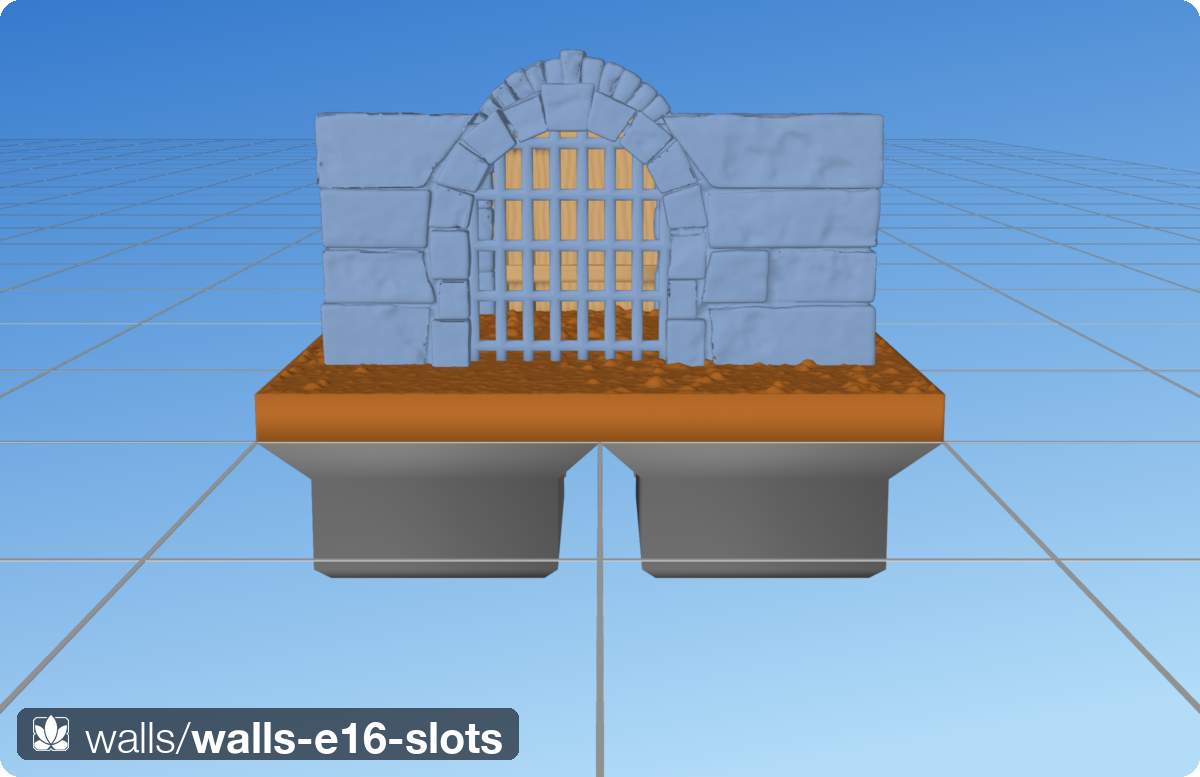
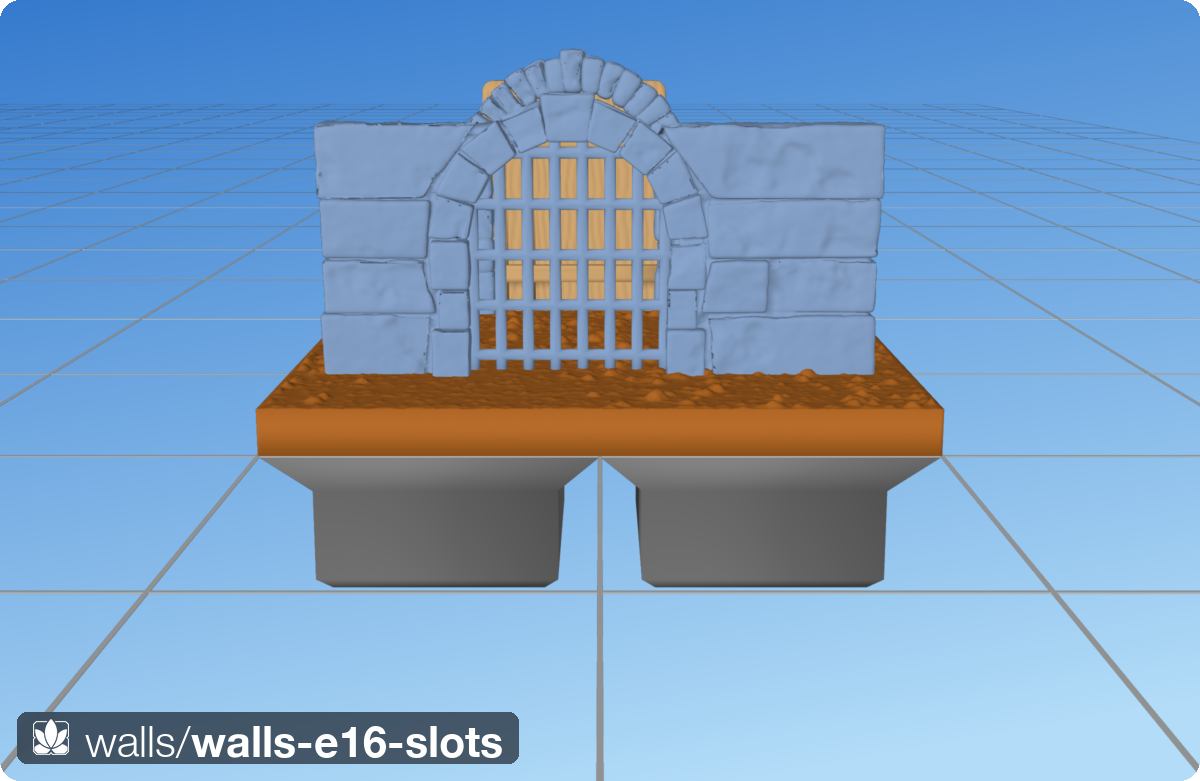
Openings O6: slot cut straight through and out the top (portcullis housing)
Shawn: "the slot should be cut straight through from the top of the
door geometry. We should see the slot from above the door." The
earlier cut followed the arch profile and was capped at the top - no
visible channel. Now _cut_slots subtracts a STRAIGHT VERTICAL channel:
opening width + _SLOT_GROOVE_MM into each jamb, from below the sill up
and out the top of the wall. The gate drops straight down into it and
the open channel reads from directly above (walls-slots-top.png).

- the slot leaf is now a matching RECTANGLE (build on the opening's
  width x height, not the arch profile) so it fills the straight
  channel and slides.
- the channel extends below the sill by the groove too (the leaf's
  buffer expands it below sill; without this the leaf bottom poked
  into uncut base and fused - caught by the component check).

Portcullis + door verified as separate connected components; walls
stay connected (front/back joined via the extrados outside the
channel); STL watertight. E13/E14/E15 bit-identical.

diff --git a/src/dharmatiles/walls/masonry.py b/src/dharmatiles/walls/masonry.py
@@ -804,22 +804,29 @@ class CutStoneWall:
 
     def _cut_slots(self, wall, segs, seat_z):
         """Slice the leaf slot out of the finished wall (Shawn: the slot
-        is just a boolean slice, not brick geometry).  For each slotted
-        opening, subtract ONE smooth prism — the profile grown by the
-        groove depth, a thin slab at the leaf plane, clearance wider and
-        thicker than the leaf — so the surround gets a clean-walled
-        groove the leaf slides into.  The leaf (``_leaf_parts``) is
-        modelled to tuck into this same groove with the clearance gap."""
-        slotted = [(si, P, op) for si, P, op, _tc in self._op_profiles
+        is just a boolean slice, not brick geometry).  The slot is a
+        STRAIGHT VERTICAL CHANNEL — the opening width plus a groove into
+        each jamb, a thin slab at the leaf plane — run from the sill up
+        and OUT THE TOP of the wall (a real portcullis housing): the
+        gate drops straight down into it, and the open channel mouth
+        reads from above the door.  The leaf (``_leaf_parts``) is a
+        matching rectangle that tucks into the groove with clearance."""
+        slotted = [(si, op, tc) for si, _P, op, tc in self._op_profiles
                    if op.slot]
         if not slotted:
             return wall
         cutters = []
-        for seg_i, P, op in slotted:
+        for seg_i, op, tc in slotted:
             slot_th = op.leaf.thickness_mm + _SLOT_CLEAR_MM
             q0 = (self.thickness_mm - slot_th) / 2.0    # centred on the leaf
-            poly = sgeom.Polygon(P).buffer(_SLOT_GROOVE_MM, quad_segs=8)
-            prism = trimesh.creation.extrude_polygon(poly, height=slot_th)
+            half = op.width_mm / 2.0 + _SLOT_GROOVE_MM
+            # groove the jambs (± half), the threshold below the sill,
+            # and run out the top — the leaf tucks into all of it.
+            z_bot = op.sill_mm - _SLOT_GROOVE_MM
+            z_top = max(self.height_mm,
+                        op.head_mm + self.surround_ring) + 8.0
+            rect = sgeom.box(tc - half, z_bot, tc + half, z_top)
+            prism = trimesh.creation.extrude_polygon(rect, height=slot_th)
             # local (X=t, Y=profile z, extrude-Z) → leaf frame
             # (x=t, y=through-thickness at q0, z=height)
             prism.apply_transform(np.array([[1.0, 0, 0, 0],
@@ -1113,13 +1120,20 @@ class CutStoneWall:
             lrng = np.random.default_rng(
                 (self.seed * 9_369_319 + 71 * li + leaf.seed)
                 & 0x7FFFFFFF)
+            # A slot leaf is a RECTANGLE that slides in the straight
+            # vertical channel (not the arch profile); an O5 leaf takes
+            # the opening's actual profile.
+            if op.slot:
+                w2 = op.width_mm / 2.0
+                P = np.array([[tc - w2, op.sill_mm], [tc + w2, op.sill_mm],
+                              [tc + w2, op.head_mm], [tc - w2, op.head_mm]])
             P = np.asarray(P, dtype=float)
             xmin = float(P[:, 0].min())
             zmin = float(P[:, 1].min())
             # A slot leaf is buffered to TUCK into the sliced groove
-            # (depth − half the clearance) so it sits in the slot with
-            # a gap all round — a separate, removable object; an O5
-            # leaf keeps its fuse buffer.
+            # (depth − half the clearance) so it sits in the channel
+            # with a gap all round — a separate, removable object; an
+            # O5 leaf keeps its fuse buffer.
             buf = (_SLOT_GROOVE_MM - _SLOT_CLEAR_MM / 2.0
                    if op.slot else None)
             body = build_leaf(leaf, P - [xmin, zmin], lrng,

diff --git a/docs/design/walls-doors.md b/docs/design/walls-doors.md
@@ -162,21 +162,22 @@ The model is dead simple (Shawn: "don't make this more complex than
   per-brick split; a slotted opening's masonry is identical to an
   unslotted one's.
 - (b) one smooth SLOT is sliced out of the finished wall
-  (`_cut_slots`, a single boolean difference): a thin slab at the
-  leaf plane, the profile grown outward by `_SLOT_GROOVE_MM`, a
-  clearance thicker than the leaf.  This leaves a clean-walled groove
-  in the surround — smooth, because it is a slice, not masonry.  The
-  groove runs around the whole profile (the jamb sides and the arch
-  soffit), open at mid-thickness.
-- the leaf is modelled to FIT the slice: `build_leaf(outline_buffer=
-  groove − clearance/2)` buffers the profile so the leaf tucks into
-  the groove with the clearance gap, sitting in the slot without
-  touching the surround.  It keeps its own material group, so it is a
-  distinct, removable object in the same STL, separated by the gap
-  (Shawn: ">1 object in the same STL, separated by space").  Print
-  it, drop it in; swap it for a `portcullis`, a `planks` door, or
-  nothing.  The official RR Double-Door-and-Tall-Arch pairing, done
-  parametrically.
+  (`_cut_slots`, a single boolean difference): a STRAIGHT VERTICAL
+  CHANNEL — the opening width plus `_SLOT_GROOVE_MM` into each jamb, a
+  thin slab (leaf thickness + clearance) at the leaf plane — run from
+  below the sill up and OUT THE TOP of the wall.  That is a real
+  portcullis housing: the gate drops straight down into it and the
+  open channel mouth reads from above the door.  Smooth walls, because
+  it is a slice, not masonry.
+- the leaf is a matching RECTANGLE modelled to FIT the slice:
+  `build_leaf(outline_buffer=groove − clearance/2)` on the opening's
+  width×height rectangle, so it tucks into the groove with the
+  clearance gap, sitting in the channel without touching the
+  surround.  It keeps its own material group, so it is a distinct,
+  removable object in the same STL, separated by the gap (Shawn: ">1
+  object in the same STL, separated by space").  Print it, drop it in;
+  swap it for a `portcullis`, a `planks` door, or nothing.  The
+  official RR Double-Door-and-Tall-Arch pairing, done parametrically.
 
 A slot leaf slides rather than swings, so `open_deg` is ignored.
 The marquee slot leaf is `Leaf('portcullis')` — a grid of vertical
